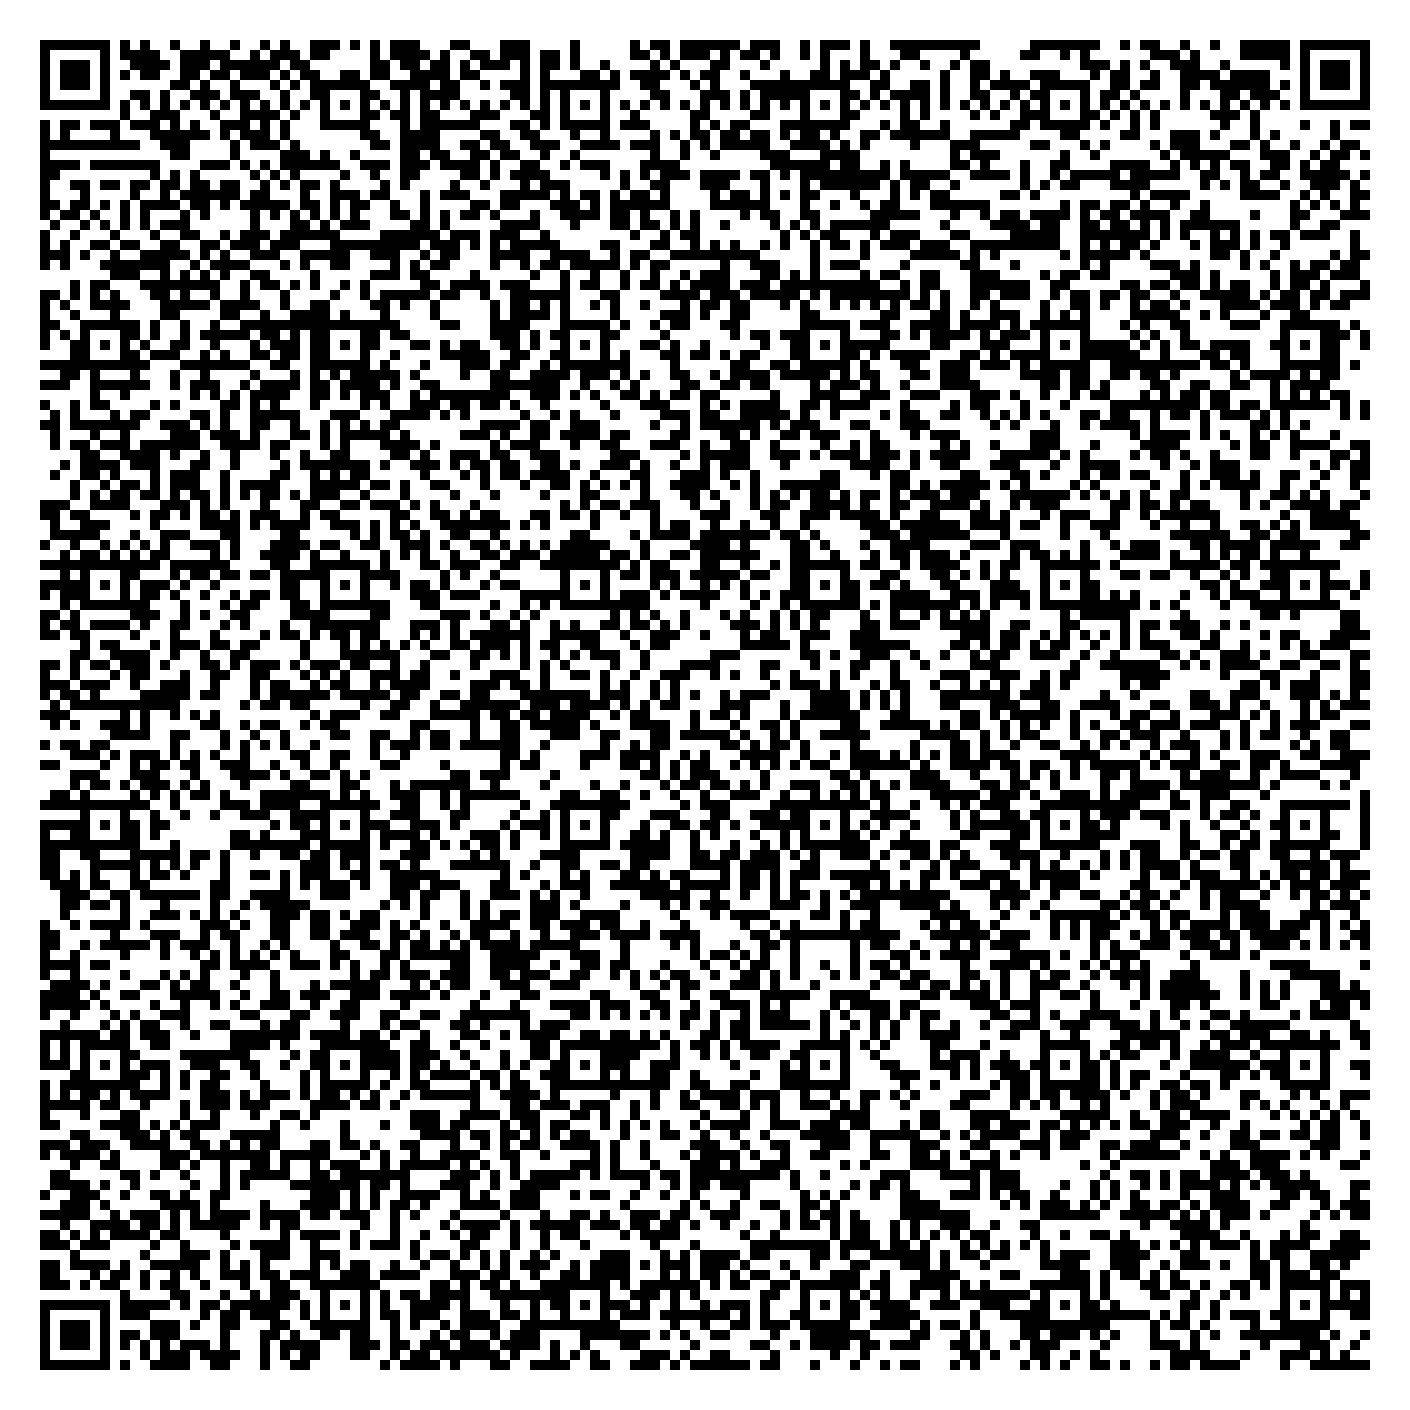
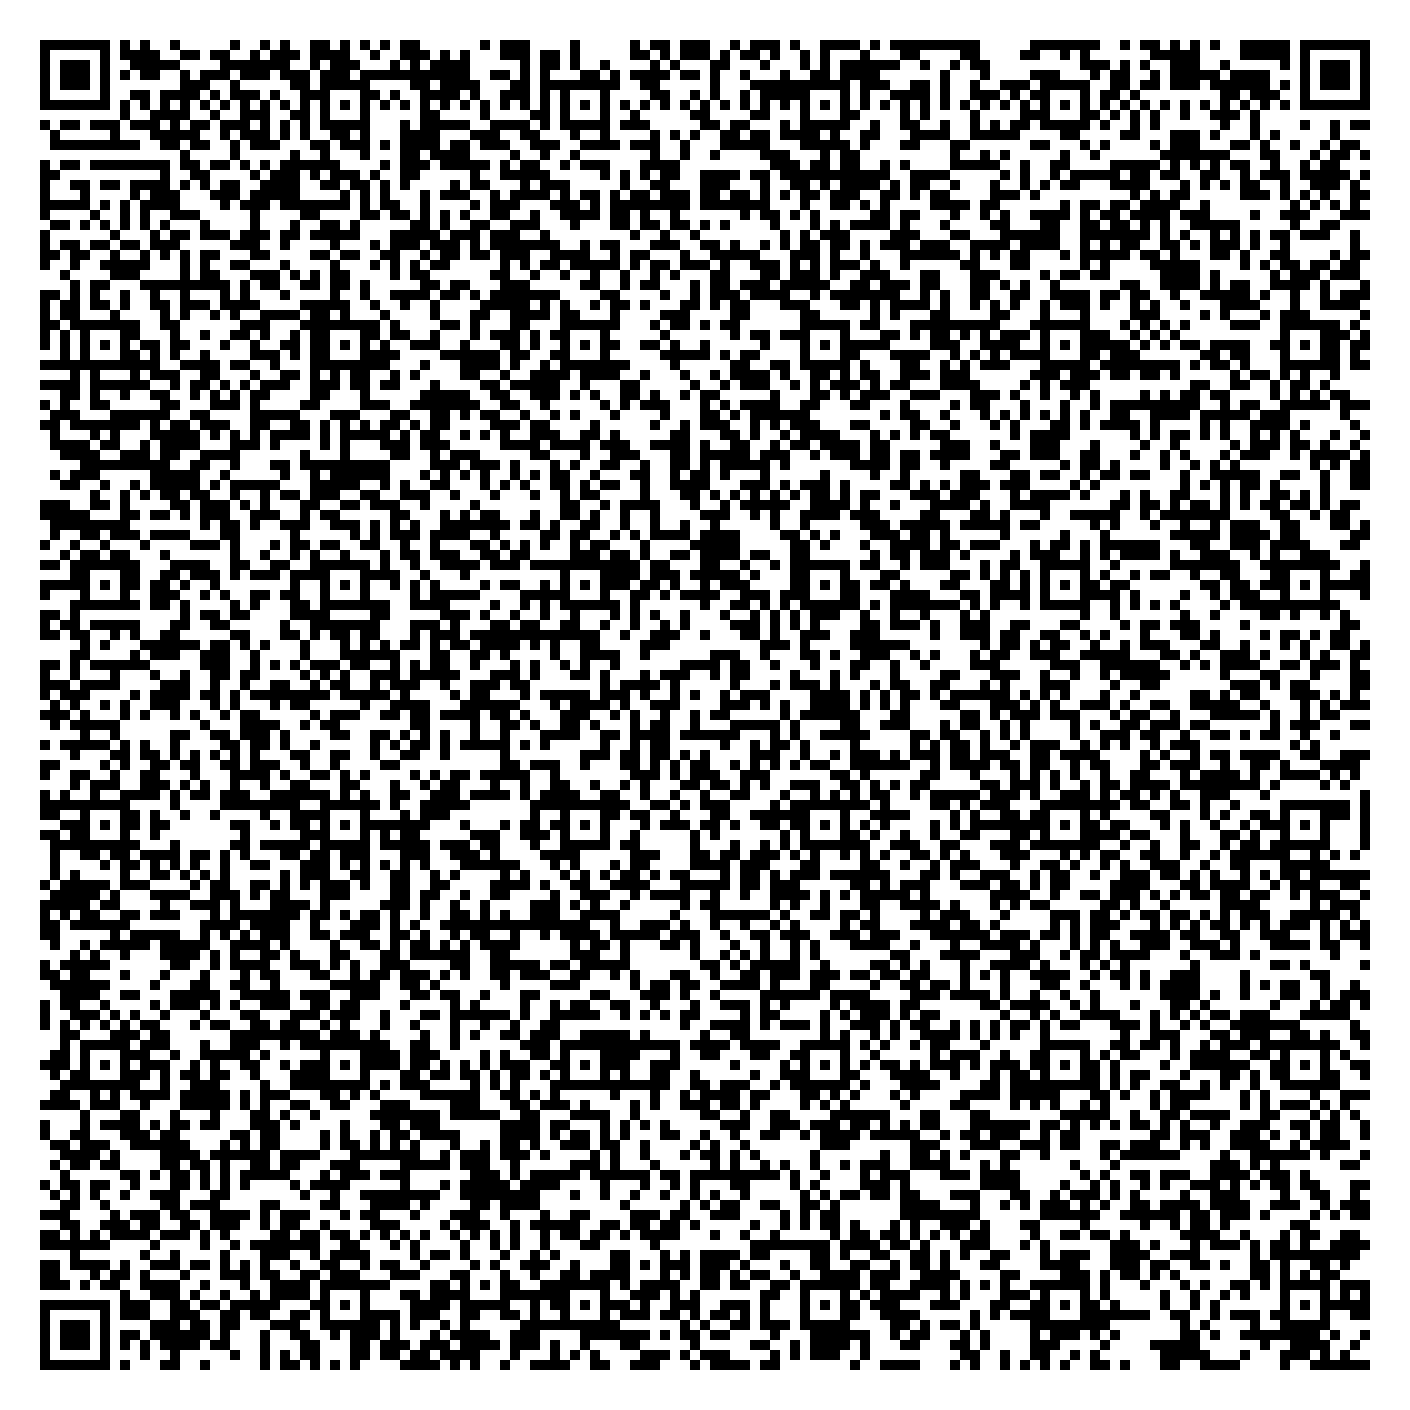
done fo today

diff --git a/index.html b/index.html
@@ -12,13 +12,14 @@
         <meta charset="UTF-8" />
         <meta http-equiv="X-UA-Compatible" content="IE=edge" />
         <meta name="viewport" content="width=device-width, initial-scale=1.0" />
-        <title>M. Scheme Eschqr</title>
+        <title>M. Scheme EschQR</title>
 
         <style>
             body,
             html {
                 height: 100%;
                 margin: 0;
+                text-align: center;
             }
             img {
                 /* this may be the first time I've used border */
@@ -33,9 +34,17 @@
         </style>
     </head>
     <body>
-        <img
-            src="py-qr.png"
-            alt="QR code that evals to python code that evals to scheme code that generates a QR code that..."
-        />
+        <blockquote>
+            ...<a href="https://en.wikipedia.org/wiki/Drawing_Hands"
+                >drawing hands</a
+            >
+            create<br />
+            meaningless symbols which form<br />
+            <a href="https://en.wikipedia.org/wiki/Strange_loop"
+                >strange loops</a
+            >, just as hands...
+        </blockquote>
+        <img src="py-qr.png" /><br />
+        <a href="http://github.com/Mehvix/mse">GitHub</a><br /><br /><br />
     </body>
 </html>

diff --git a/img-to-scm.py b/img-to-scm.py
@@ -28,10 +28,10 @@ scheme = f"\
 ;;;\n\
 ;;; Please do not include your name or personal info in this file.\n\
 ;;;\n\
-;;; Title: MSE: MSE Scheme Eschqr\n\
+;;; Title: MSE: MSE Scheme EschQR\n\
 ;;;\n\
 ;;; Description:\n\
-;;;   <...sketching hands create\n\
+;;;   <...drawing hands create\n\
 ;;;    meaningless symbols which form\n\
 ;;;    strange loops, just as hands...>\n\
 \n\

diff --git a/README.md b/README.md
@@ -1,8 +1,8 @@
 # MSE
 
-M Scheme Eschqr<br> 
+M Scheme EschQR<br> 
 Scheme<br>
-Eschqr<br>
+EschQR<br>
 
 
 ---
@@ -19,9 +19,11 @@ from a series which -->
 set of meaningless symbols
 is a strange loop, which, -->
 
-> ...sketching hands create<br>
+> ...[drawing hands](https://en.wikipedia.org/wiki/Drawing_Hands) create<br>
 > meaningless symbols which form <br>
-> strange loops, just as hands...<br>
-...sketching hands create
-meaningless symbols which form 
-strange loops, just as hands...
+> [strange loops](https://en.wikipedia.org/wiki/Strange_loop), just as hands...<br>
+
+---
+
+
+![](flowchart.png)
